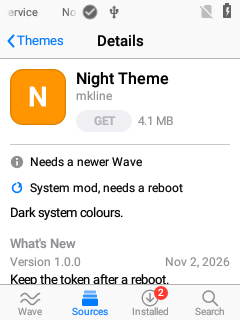
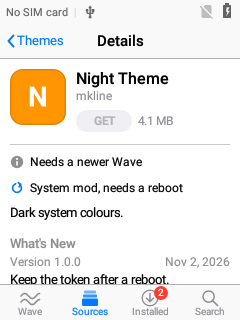
Wave 0.7.23: a package kept after its source went shows no empty Author row, description or byline, and isn't offered Reinstall; debug fixtures newer (Wave's update offered) and kept (packages with no source); phone shots of 0.7.22's Details changes

Changed region(s): [[0.0292, 0.0, 0.4083, 0.0625], [0.4375, 0.0, 0.4958, 0.0625]]

diff --git a/app/app/src/debug/java/com/wave/xp3/app/FakeWaveData.java b/app/app/src/debug/java/com/wave/xp3/app/FakeWaveData.java
@@ -27,6 +27,10 @@ import java.util.Map;
  * - uptodate: as browse, with no updates.
  * - big: as browse, plus Big Source with 500 packages (long lists) and 3 that can't be read.
  * - noroot: as browse, without root.
+ * - newer: as browse, with Wave 0.8.0 offered by the Wave source (Night Theme needs it).
+ * - kept: as browse, after a source was removed: Weather and Clock Seconds stay on
+ *   Installed (Weather by its receipt, Clock Seconds with none), and Wave itself is
+ *   in no source; none of them has a source id or a section.
  * Getting Mail always fails its check, to show the queue's alert.
  *
  * Plans come back as the mockups' (a dependency, a replaced package); Confirm
@@ -80,13 +84,23 @@ public final class FakeWaveData implements WaveData {
         put(new Pkg("com.mkline.tetrim", "Tetrim", "Falling blocks for the d-pad", null, "0.4.0", null, State.NONE,
             "Needs Android 9; this phone has 8.1.", false, false, null, "games", "XP3 Games", "Games"));
         put(new Pkg("night_theme", "Night Theme", "Dark system colours", null, "0.2.0", null, State.NONE,
-            null, true, true, null, "tweaks", "Sonim Tweaks", "Themes"));
+            "Needs a newer Wave", true, true, null, "tweaks", "Sonim Tweaks", "Themes"));
         descriptions.put("com.mail.xp3", "Gmail on the keypad: threads, search, replies and attachments you can open. Bring your own Gmail token with a setup code.");
         descriptions.put("messages_improved", "The stock Messages app and its provider, fixed: group MMS land in the right thread.");
         if (reboot) rebootPending.add("Messages Improved");
         if (errors) turnedOff.add(new TurnedOff("launcher_improved", "Launcher Improved", "2.0.1", null));
         if ("noroot".equals(fixture)) root = Root.NONE;
         if ("big".equals(fixture)) bulk();
+        if ("newer".equals(fixture)) {
+            put(new Pkg("com.wave.xp3", "Wave", "Apps and system mods for this phone", null, "0.8.0", "0.5.0", State.UPDATE, null, false, false,
+                new Change("0.8.0", today, "Reads format 2 sources, so Night Theme installs."), "wave", "Wave", "Applications"));
+        }
+        if ("kept".equals(fixture)) {
+            // As CatalogModel.addOrphan builds them: no source id, the receipt's source name (or ""), no section.
+            put(new Pkg("com.wave.xp3", "Wave", "", null, "0.5.0", "0.5.0", State.INSTALLED, null, false, false, null, null, "", ""));
+            put(new Pkg("com.weather.xp3", "Weather", "", null, "1.0.3", "1.0.3", State.INSTALLED, null, false, false, null, null, "Old Source", ""));
+            put(new Pkg("clock_seconds", "Clock Seconds", "", null, "0.3", "0.3", State.INSTALLED, null, false, true, null, null, "", ""));
+        }
     }
 
     /** The big fixture: a source of 500 packages in five sections, 40 of them installed and 10 with updates. */
@@ -127,6 +141,7 @@ public final class FakeWaveData implements WaveData {
         Map<String, List<Pkg>> bySection = new LinkedHashMap<>();
         List<Section> sections = new ArrayList<>();
         for (Pkg p : where(sourceId, null)) {
+            if (p.sourceId == null) continue;
             String folder = p.sectionName.toLowerCase(Locale.US);
             if (!bySection.containsKey(folder)) bySection.put(folder, new ArrayList<>());
             bySection.get(folder).add(p);
@@ -138,11 +153,20 @@ public final class FakeWaveData implements WaveData {
             sections.add(new Section(f, list.get(0).sectionName, list.size()));
         }
         Map<String, Detail> details = new HashMap<>();
-        for (Pkg p : where(sourceId, null)) details.put(p.id, detail(p));
-        return new Shelf(featured, where(sourceId, null), sections, bySection, details);
+        List<Pkg> rows = new ArrayList<>();
+        for (Pkg p : where(sourceId, null)) {
+            details.put(p.id, detail(p));
+            if (p.sourceId != null) rows.add(p);
+        }
+        return new Shelf(featured, rows, sections, bySection, details);
     }
 
     private Detail detail(Pkg p) {
+        if (p.sourceId == null) {
+            // Kept with no source: what CatalogModel.addOrphan gives, nothing but the package itself.
+            return new Detail(p, "", "", 0, Collections.<Change>emptyList(), Collections.<String>emptyList(),
+                Collections.<String>emptyList(), Collections.<String>emptyList(), false);
+        }
         List<Change> changes = new ArrayList<>();
         if (p.newestChange != null) changes.add(p.newestChange);
         changes.add(new Change(p.installedVersion != null ? p.installedVersion : "1.0.0", "2026-11-02", "Keep the token after a reboot."));
@@ -249,6 +273,7 @@ public final class FakeWaveData implements WaveData {
         List<Pkg> found = new ArrayList<>();
         String q = query.toLowerCase(Locale.US);
         for (Pkg p : where(null, null)) {
+            if (p.sourceId == null) continue; // search reads the sources' index only
             if (p.name.toLowerCase(Locale.US).contains(q) || p.summary.toLowerCase(Locale.US).contains(q)) found.add(p);
         }
         main.post(() -> callback.ok(found));

diff --git a/app/app/src/main/java/com/wave/xp3/app/DetailsScreen.java b/app/app/src/main/java/com/wave/xp3/app/DetailsScreen.java
@@ -90,10 +90,14 @@ final class DetailsScreen extends Screen {
         TextView name = Kit.line(app, p.name, 16, Look.TEXT);
         name.setTypeface(Look.MEDIUM);
         texts.addView(name);
-        TextView by = Kit.line(app, d.author != null ? d.author : p.sourceName != null ? p.sourceName : "", 12, Look.MUTED);
-        LinearLayout.LayoutParams bl = Kit.wrap();
-        bl.topMargin = Kit.dp(app, 1);
-        texts.addView(by, bl);
+        // Kept by a receipt, a package has no author and maybe no source name: then no line at all.
+        String byline = !empty(d.author) ? d.author : !empty(p.sourceName) ? p.sourceName : null;
+        if (byline != null) {
+            TextView by = Kit.line(app, byline, 12, Look.MUTED);
+            LinearLayout.LayoutParams bl = Kit.wrap();
+            bl.topMargin = Kit.dp(app, 1);
+            texts.addView(by, bl);
+        }
         LinearLayout capLine = new LinearLayout(app);
         capLine.setGravity(android.view.Gravity.CENTER_VERTICAL);
         String word = word(p);
@@ -158,7 +162,7 @@ final class DetailsScreen extends Screen {
         // Kept by a receipt after its source went, a package has no section (and Wave itself may have no source).
         if (p.sourceName != null && !p.sourceName.isEmpty()) facts.add(new String[]{"Source", p.sourceName});
         if (p.sectionName != null && !p.sectionName.isEmpty()) facts.add(new String[]{"Section", p.sectionName});
-        if (d.author != null) facts.add(new String[]{"Author", d.author});
+        if (!empty(d.author)) facts.add(new String[]{"Author", d.author});
         if (!d.depends.isEmpty()) facts.add(new String[]{"Needs", join(d.depends)});
         if (!d.conflicts.isEmpty()) facts.add(new String[]{"Conflicts", join(d.conflicts)});
         facts.add(new String[]{"Id", p.id});
@@ -170,9 +174,13 @@ final class DetailsScreen extends Screen {
         app.redressBar();
     }
 
+    private static boolean empty(String s) {
+        return s == null || s.isEmpty();
+    }
+
     private void description(Detail d) {
-        if (d.description == null || d.description.isEmpty()) {
-            if (d.pkg.summary != null) {
+        if (empty(d.description)) {
+            if (!empty(d.pkg.summary)) {
                 TextView p = paragraph(app, d.pkg.summary);
                 p.setPadding(p.getPaddingLeft(), Kit.dp(app, 4), p.getPaddingRight(), p.getPaddingBottom());
                 column.addView(p);

diff --git a/app/app/src/main/java/com/wave/xp3/app/WaveActivity.java b/app/app/src/main/java/com/wave/xp3/app/WaveActivity.java
@@ -611,7 +611,8 @@ public final class WaveActivity extends Activity {
         if (withDetails) menu.add("Details", () -> details(p, sourceId));
         if (p.state == WaveData.State.OFF) menu.add("Turn On", () -> data.turnOn(p.id));
         boolean installed = p.state != WaveData.State.NONE && p.state != WaveData.State.PENDING_REMOVAL;
-        if (installed && p.state != WaveData.State.PENDING_INSTALL && p.state != WaveData.State.UPDATE && !Rows.unfit(p)) {
+        // Reinstalling downloads from a source; one kept only by its receipt has none.
+        if (installed && p.sourceId != null && p.state != WaveData.State.PENDING_INSTALL && p.state != WaveData.State.UPDATE && !Rows.unfit(p)) {
             menu.add("Reinstall", () -> plan(Collections.singletonList(p.id), WaveData.Action.REINSTALL));
         }
         if (installed && !p.id.equals(getPackageName())) {

diff --git a/docs/tasks/README.md b/docs/tasks/README.md
@@ -67,7 +67,7 @@ Four agents can work without touching the same files: one on the app's core
 
 - **Site quality pass:** `e49775d` stages 21 public assets (~99 kB raw, ~45 kB individually gzip-compressed); landing is ~27 kB and has no JavaScript. The Home preview is pixel-identical lossless WebP (11.5 kB, down from 22.2 kB). All six pages passed strict HTML5 parsing and the staged link/import/size checks; the site and USB replay suites pass. Chromium at 240×320 verified all skip links, keyboard-only setup including invalid-field focus and download, and arrow-only access to primary controls with native spatial navigation enabled. The guide tells visitors from Wave that it cannot create a backup, patch, flash, or grant root. Target vs shipped scope is explicit (`dab674c`). GitHub Wave links remain pending the owner cutover; device USB, hosted Pages and screen-reader hardware were not tested in this pass.
 
-- **07 done:** `com.wave.xp3.app` (`641c311` … `c322082`, Wave 0.7.12, code 19): tabs Wave, Sources, Installed, Search; source, section, Details, Add a Source, Confirm, the queue, Root, watchdog and reboot dialogs, over agent 2's `WaveData`. `MainActivity` (the Updater list) is off the launcher. Debug builds take `--es fixture browse|reboot|errors|offline|uptodate|noroot` (and `--es query`) from `src/debug/.../FakeWaveData`, which changes nothing on the phone; see `app/SPEC.md`. Every mockup frame has a matching 0.7.12 screenshot from 8516067e in `site/mockups/phone/` (48 shots, `site/mockups/phone-frames.py`; d-pad keys and `input text` only), compared side by side with `shots/`; differences are listed in `site/mockups/CHECKLIST.md`. Agent 5's suite (above) reaches every action with the d-pad alone. Installing 0.7.6 release over 0.1.0 (04's Updater-derived build, same signer) kept working: the launcher resolves to `.app.WaveActivity`, no crash, Home/Sources/Installed drawn. A real app install from a real HTTPS source on stock went through Confirm and the queue (agent 1, Wave Demo, including a hash failure). On the rooted phone (agent 1, ROOT-TESTING 06, Wave 0.7.17 to 0.7.19) the screens behaved as specified with real root: the turned-off alert, Turn On, Remove It, Reboot Now rebooting, mod install, update and removal across reboots, and Installed's Remove without Android's prompt. Magisk shows its own "granted Superuser rights" toast each time Wave uses root. Agent 3 then walked the rooted paths through Wave's screens alone (Wave 0.7.20 at `15dc337`, a debug build whose scratch copy only trusts a localhost certificate and points the default source at a local HTTPS Git source holding `app/root-tests`' two test mods). Check Again raised Magisk's prompt and was granted with the d-pad (Down, Right, OK), and Wave said "Wave has root". Installing Wave Test OK went GET ("System mod, needs a reboot"), Confirm ("2 KB to download, then a reboot"), Installing, Done (Later, Reboot Now). The Reboot to Finish rows on Home and Installed followed, and the first module plan installed the watchdog. Wave Test Broken, armed, was installed alongside, and Home's REBOOT opened "Reboot Now?" on Later; Reboot restarted the phone. Its boot was held, the watchdog rebooted once after 300 s and turned off both new mods (it cannot tell which of two new ones stopped the boot), and Wave showed one "Turned off" alert per mod and Turned off rows. Both were removed through Installed's menu (Confirm "Needs a reboot", Done "Removed when the phone restarts.", Reboot Now) and were gone after the reboots. This closes these rows of the frame list (`site/mockups/phone/`, now real data): no-root, details-module, queue-confirm, queue-progress, queue-reboot, wave-home-reboot, installed-reboot, x-reboot-dialog, error-watchdog and error-watchdog-row, plus `x-magisk-grant`. Not walked by agent 3: Turn On (agent 1 saw it work). Long pages are recycled lists since `0fdc544` (Wave 0.7.16, `app.Feed`): with the `big` fixture's 500 packages All Packages opens in 0.3 s instead of 6.1 s, with 190 views instead of 3,642 and a 5.5 MB Java heap instead of 12.4 MB; cold start unchanged (release 532 ms vs 542 ms); `07-long-list` passes. Scrolling it got faster in Wave 0.7.20 (agent 1; 499 d-pad Downs in one `input` call, gfxinfo after a reset, on 8516067e): frames 15/31/61 ms at the 50th/90th/99th percentile with 37% janky became 12/21/29 ms with 20% janky, the 499 Downs take 11 s instead of 21 s, and PSS at the bottom is 29 MB instead of 58 MB. Holding Down for 20 s: 16/34/77 ms with 50% janky became 11/19/30 ms with 14%. Causes fixed: each Down's forced layout of every row (the selection now follows the focus at the next layout), a scroll in two steps that detached and reattached a row, every key going through the input method (T9) first, a lettered tile drawn per package (now shared by colour and letter), new Paths per draw, an extra text measure from baseline alignment, a stat per icon lookup, and background news rebuilding the list (now rebinding only the changed rows on screen). Screens are pixel-identical to 0.7.19 below the status bar. In 0.7.21 browse rows keep their measurement (every one is the same size, and the detail line is now as wide as the name, so a rebind no longer asks for a measure): 99th percentile 24, 27 and 27 ms over three runs instead of 29, with 14 to 17% janky. Warming the next row's text while idle was tried and didn't help, so it isn't in.
+- **07 done:** `com.wave.xp3.app` (`641c311` … `c322082`, Wave 0.7.12, code 19): tabs Wave, Sources, Installed, Search; source, section, Details, Add a Source, Confirm, the queue, Root, watchdog and reboot dialogs, over agent 2's `WaveData`. `MainActivity` (the Updater list) is off the launcher. Debug builds take `--es fixture browse|reboot|errors|offline|uptodate|noroot` (and `--es query`) from `src/debug/.../FakeWaveData`, which changes nothing on the phone; see `app/SPEC.md`. Every mockup frame has a matching 0.7.12 screenshot from 8516067e in `site/mockups/phone/` (48 shots, `site/mockups/phone-frames.py`; d-pad keys and `input text` only), compared side by side with `shots/`; differences are listed in `site/mockups/CHECKLIST.md`. Agent 5's suite (above) reaches every action with the d-pad alone. Installing 0.7.6 release over 0.1.0 (04's Updater-derived build, same signer) kept working: the launcher resolves to `.app.WaveActivity`, no crash, Home/Sources/Installed drawn. A real app install from a real HTTPS source on stock went through Confirm and the queue (agent 1, Wave Demo, including a hash failure). On the rooted phone (agent 1, ROOT-TESTING 06, Wave 0.7.17 to 0.7.19) the screens behaved as specified with real root: the turned-off alert, Turn On, Remove It, Reboot Now rebooting, mod install, update and removal across reboots, and Installed's Remove without Android's prompt. Magisk shows its own "granted Superuser rights" toast each time Wave uses root. Agent 3 then walked the rooted paths through Wave's screens alone (Wave 0.7.20 at `15dc337`, a debug build whose scratch copy only trusts a localhost certificate and points the default source at a local HTTPS Git source holding `app/root-tests`' two test mods). Check Again raised Magisk's prompt and was granted with the d-pad (Down, Right, OK), and Wave said "Wave has root". Installing Wave Test OK went GET ("System mod, needs a reboot"), Confirm ("2 KB to download, then a reboot"), Installing, Done (Later, Reboot Now). The Reboot to Finish rows on Home and Installed followed, and the first module plan installed the watchdog. Wave Test Broken, armed, was installed alongside, and Home's REBOOT opened "Reboot Now?" on Later; Reboot restarted the phone. Its boot was held, the watchdog rebooted once after 300 s and turned off both new mods (it cannot tell which of two new ones stopped the boot), and Wave showed one "Turned off" alert per mod and Turned off rows. Both were removed through Installed's menu (Confirm "Needs a reboot", Done "Removed when the phone restarts.", Reboot Now) and were gone after the reboots. This closes these rows of the frame list (`site/mockups/phone/`, now real data): no-root, details-module, queue-confirm, queue-progress, queue-reboot, wave-home-reboot, installed-reboot, x-reboot-dialog, error-watchdog and error-watchdog-row, plus `x-magisk-grant`. Not walked by agent 3: Turn On (agent 1 saw it work). Agent 1's 0.7.22 Details changes, seen on the phone by agent 3 with the new debug fixtures `newer` and `kept` (0.7.23): a newer-format package says so once, as the grey note the mockup draws (`phone/details-newer.png`, now with the reason set as real data sets it); with Wave's update offered the note reads "Update Wave to install this", both menus have Update Wave, and it opens Confirm "Update, Wave, 0.5.0 → 0.8.0"; a package kept by its receipt after its source went, a kept mod with no receipt and Wave in no source open their details with no Source or Section row when they have none. That check found three more empty things on kept packages, fixed in 0.7.23: an Author row with no value, a blank description paragraph and an empty byline; and Reinstall was offered for them though there is no source to download from (now only for packages in a source). Shots: `phone/x-details-update-wave.png`, `x-menu-update-wave.png`, `x-details-kept.png`, `x-details-kept-mod.png`. Long pages are recycled lists since `0fdc544` (Wave 0.7.16, `app.Feed`): with the `big` fixture's 500 packages All Packages opens in 0.3 s instead of 6.1 s, with 190 views instead of 3,642 and a 5.5 MB Java heap instead of 12.4 MB; cold start unchanged (release 532 ms vs 542 ms); `07-long-list` passes. Scrolling it got faster in Wave 0.7.20 (agent 1; 499 d-pad Downs in one `input` call, gfxinfo after a reset, on 8516067e): frames 15/31/61 ms at the 50th/90th/99th percentile with 37% janky became 12/21/29 ms with 20% janky, the 499 Downs take 11 s instead of 21 s, and PSS at the bottom is 29 MB instead of 58 MB. Holding Down for 20 s: 16/34/77 ms with 50% janky became 11/19/30 ms with 14%. Causes fixed: each Down's forced layout of every row (the selection now follows the focus at the next layout), a scroll in two steps that detached and reattached a row, every key going through the input method (T9) first, a lettered tile drawn per package (now shared by colour and letter), new Paths per draw, an extra text measure from baseline alignment, a stat per icon lookup, and background news rebuilding the list (now rebinding only the changed rows on screen). Screens are pixel-identical to 0.7.19 below the status bar. In 0.7.21 browse rows keep their measurement (every one is the same size, and the detail line is now as wide as the name, so a rebind no longer asks for a measure): 99th percentile 24, 27 and 27 ms over three runs instead of 29, with 14 to 17% janky. Warming the next row's text while idle was tried and didn't help, so it isn't in.
 
 - **Device UI QA (07 evidence):** `tools/qa/` (`bbcb698`; 10 host tests then, 25 today) drives the phone with d-pad keys only, takes a 240×320 capture per step, checks text through uiautomator, focus movement, screen change and logcat crash/ANR, and writes an HTML report. Scenarios name their debug fixture; `python3 tools/qa/suite.py` runs them all. On Wave 0.7.6 (code 13, debug fixtures) on 8516067e: tabs, source > section > package > Confirm plan > Back out, Search (`mus`) > details > Back, Installed (Update All, row menu), errors (watchdog alert, red source row), reboot dialog (never confirmed), offline Sources all passed with no Wave crash or ANR and the temporary install removed each time. Suite: `.oak/tmp/wave-qa/suite-076/index.html`. Earlier stock 0.1.0 and 0.3.0 passed offline launch > MENU > BACK. On 0.7.12 (code 19) the new default-answer fixes passed too: `Reboot Now?` starts on Later (OK closes it, no reboot toast) and `Remove XP3 Games?` starts on Cancel, and a second queue after a failed Mail run shows no stale "wasn't installed" alert (`.oak/tmp/wave-qa/suite-0712/index.html`). Final run on Wave 0.7.16 (code 23, debug APK built from a clean export of `0fdc544`, SHA-256 `99624a5e…cfd`): all 11 fixture scenarios passed, including `07-long-list` (500-row All Packages, Down ×498 to Juniper 500, Back keeps the place) and the stale-alert and default-answer checks, no Wave crash or ANR, temporary install removed each time. Suite `.oak/tmp/wave-qa/suite-0716-final/index.html` (9 PASS; `07-tabs` failed at launch and `07-stale-alert` at Canvas details with Wave not foreground while the phone was shared with the rooting work); reruns passed: `suite-0716-rerun` (tabs) and `suite-0716-rerun3` (stale-alert, after harness timing fixes `1523f69`, `1d9d3e6`). The first-run failures were not reproduced and their cause is not proven. All phone use goes through `tools/qa/phone-run.sh` (`5f64ab9`). The harness cannot show that a screen looks right (mockup comparison does), that an install happened, or anything needing root; see its README. Last run on Wave 0.7.21 (code 28, debug APK from a clean export of `a71bf0a`, SHA-256 `e02eebf8…a262`, phone rooted, fixtures only): all 13 fixture scenarios passed first time, including `07-bar-links` (Sources bar: Up reaches Add, Add opens Add a Source, Down then Back returns, Left reaches Refresh, a refresh spins and the link returns) and `07-unreadable` ("3 packages can't be read" line and its alert listing the three packages and the ignored icon), no Wave crash or ANR, temporary install removed each time. Suite `.oak/tmp/wave-qa/suite-0721-final/index.html`. Not covered by it: Add a Source typing (agent 3's own walk), a real install, rooted behaviour.
 

diff --git a/app/SPEC.md b/app/SPEC.md
@@ -94,11 +94,13 @@ fixed lines that are not stops. With 500 packages, All Packages opens in
 about 0.3 s and keeps about 190 views (a ScrollView of every row took 6 s
 and 3,600 views).
 
-Debug builds take `--es fixture browse|reboot|errors|offline|uptodate|big|noroot`
+Debug builds take `--es fixture browse|reboot|errors|offline|uptodate|big|noroot|newer|kept`
 (and `--es query <text>` to open Search typed) to show sample data
 (`src/debug/.../FakeWaveData`) without changing the phone; release builds
 ignore both. `big` adds Big Source, 500 packages in five sections (40
-installed, 10 updates), for long lists. Debug builds also log each screen's
+installed, 10 updates), for long lists. `newer` has a source offer Wave 0.8.0, which Night Theme
+(a newer format) needs. `kept` shows what stays after a source is removed:
+Weather (by its receipt), Clock Seconds and Wave itself, with no source or section. Debug builds also log each screen's
 build and first-draw time under the logcat tag `WaveTime`.
 
 ### The Updater list (`MainActivity`, off the launcher since 0.5.0)

diff --git a/site/mockups/CHECKLIST.md b/site/mockups/CHECKLIST.md
@@ -35,6 +35,12 @@ mod, so the fixture's dependency and replaced-mod rows are only in the 0.7.12
 shots (git history, `2ac1a56`). The turned-off alert and rows come from a
 real watchdog turn-off.
 
+From Wave 0.7.23 (fixtures `browse`, `newer`, `kept`): details-newer (the newer-format
+reason said once, as the grey note), `x-details-update-wave` and `x-menu-update-wave`
+(a source offers Wave's update: "Update Wave to install this", and Update Wave in
+the menu), `x-details-kept` and `x-details-kept-mod` (kept by a receipt after the
+source went: no empty Source, Section or Author rows, no blank description).
+
 Budget: 24 status + 34 bar + 1 hairline + 36 tab bar leaves **225px** of
 page on a tab. A browsed package row and an Installed row are 47px (name,
 a line of detail, a capsule or chevron): 4.8 rows show. The Updater's row
